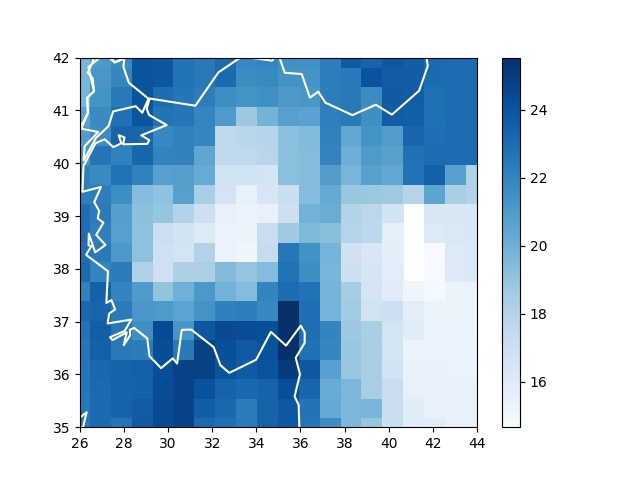
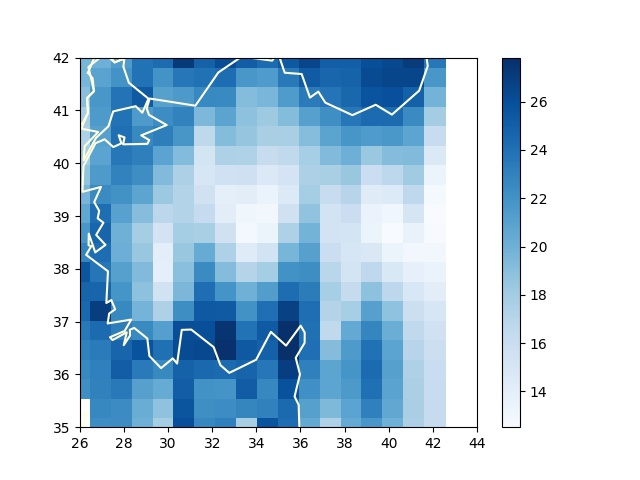
-

diff --git a/sk/2023/06/iklim-nem-verisi.html b/sk/2023/06/iklim-nem-verisi.html
@@ -263,33 +263,11 @@ toparlayıp renksel haritalama yapabiliriz, TR örneği,</p>
 <div class="codehilite">
 <pre><span></span><code><span class="kn">import</span> <span class="nn">numpy</span> <span class="k">as</span> <span class="nn">np</span><span class="o">,</span> <span class="nn">glob</span><span class="o">,</span> <span class="nn">simplegeomap</span> <span class="k">as</span> <span class="nn">sm</span><span class="o">,</span> <span class="nn">quads</span>
 <span class="kn">import</span> <span class="nn">pandas</span> <span class="k">as</span> <span class="nn">pd</span><span class="o">,</span> <span class="nn">os</span><span class="o">,</span> <span class="nn">matplotlib.pyplot</span> <span class="k">as</span> <span class="nn">plt</span>
+<span class="kn">from</span> <span class="nn">scipy.interpolate</span> <span class="kn">import</span> <span class="n">NearestNDInterpolator</span><span class="p">,</span> <span class="n">CloughTocher2DInterpolator</span>
 
 <span class="k">def</span> <span class="nf">cdist</span><span class="p">(</span><span class="n">p1</span><span class="p">,</span><span class="n">p2</span><span class="p">):</span>    
     <span class="n">distances</span> <span class="o">=</span> <span class="n">np</span><span class="o">.</span><span class="n">linalg</span><span class="o">.</span><span class="n">norm</span><span class="p">(</span><span class="n">p1</span> <span class="o">-</span> <span class="n">p2</span><span class="p">,</span> <span class="n">axis</span><span class="o">=</span><span class="mi">1</span><span class="p">)</span>
     <span class="k">return</span> <span class="n">distances</span>
-
-<span class="k">class</span> <span class="nc">QuadTreeInterpolator</span><span class="p">:</span>
-    <span class="k">def</span> <span class="fm">__init__</span><span class="p">(</span><span class="bp">self</span><span class="p">,</span> <span class="n">x</span><span class="p">,</span> <span class="n">y</span><span class="p">):</span>
-        <span class="bp">self</span><span class="o">.</span><span class="n">tree</span> <span class="o">=</span> <span class="n">quads</span><span class="o">.</span><span class="n">QuadTree</span><span class="p">((</span><span class="n">np</span><span class="o">.</span><span class="n">mean</span><span class="p">(</span><span class="n">x</span><span class="p">),</span> <span class="n">np</span><span class="o">.</span><span class="n">mean</span><span class="p">(</span><span class="n">y</span><span class="p">)),</span> <span class="mi">100</span><span class="p">,</span> <span class="mi">100</span><span class="p">)</span>
-
-    <span class="k">def</span> <span class="nf">cell_interp</span><span class="p">(</span><span class="bp">self</span><span class="p">,</span> <span class="n">x</span><span class="p">,</span> <span class="n">y</span><span class="p">,</span> <span class="n">points</span><span class="p">):</span>
-        <span class="n">a</span> <span class="o">=</span> <span class="n">np</span><span class="o">.</span><span class="n">array</span><span class="p">([</span><span class="n">x</span><span class="p">,</span><span class="n">y</span><span class="p">])</span><span class="o">.</span><span class="n">reshape</span><span class="p">(</span><span class="o">-</span><span class="mi">1</span><span class="p">,</span><span class="mi">2</span><span class="p">)</span>
-        <span class="n">b</span> <span class="o">=</span> <span class="n">np</span><span class="o">.</span><span class="n">array</span><span class="p">(</span><span class="n">points</span><span class="p">)[:,:</span><span class="mi">2</span><span class="p">]</span>
-        <span class="n">ds</span> <span class="o">=</span> <span class="n">cdist</span><span class="p">(</span><span class="n">a</span><span class="p">,</span><span class="n">b</span><span class="p">)</span>
-        <span class="n">ds</span> <span class="o">=</span> <span class="n">ds</span> <span class="o">/</span> <span class="n">np</span><span class="o">.</span><span class="n">sum</span><span class="p">(</span><span class="n">ds</span><span class="p">)</span>
-        <span class="n">ds</span> <span class="o">=</span> <span class="mf">1.</span> <span class="o">-</span> <span class="n">ds</span>
-        <span class="n">c</span> <span class="o">=</span> <span class="n">np</span><span class="o">.</span><span class="n">array</span><span class="p">(</span><span class="n">points</span><span class="p">)[:,</span><span class="mi">2</span><span class="p">]</span>
-        <span class="n">iz</span> <span class="o">=</span> <span class="n">np</span><span class="o">.</span><span class="n">sum</span><span class="p">(</span><span class="n">c</span> <span class="o">*</span> <span class="n">ds</span><span class="p">)</span> <span class="o">/</span> <span class="n">np</span><span class="o">.</span><span class="n">sum</span><span class="p">(</span><span class="n">ds</span><span class="p">)</span>
-        <span class="k">return</span> <span class="n">iz</span>
-
-    <span class="k">def</span> <span class="nf">append</span><span class="p">(</span><span class="bp">self</span><span class="p">,</span> <span class="n">x</span><span class="p">,</span> <span class="n">y</span><span class="p">,</span> <span class="n">z</span><span class="p">):</span>
-        <span class="k">for</span> <span class="n">xx</span><span class="p">,</span><span class="n">yy</span><span class="p">,</span><span class="n">zz</span> <span class="ow">in</span> <span class="nb">zip</span><span class="p">(</span><span class="n">x</span><span class="p">,</span><span class="n">y</span><span class="p">,</span><span class="n">z</span><span class="p">):</span>
-            <span class="bp">self</span><span class="o">.</span><span class="n">tree</span><span class="o">.</span><span class="n">insert</span><span class="p">((</span><span class="n">xx</span><span class="p">,</span><span class="n">yy</span><span class="p">),</span><span class="n">data</span><span class="o">=</span><span class="n">zz</span><span class="p">)</span>
-
-    <span class="k">def</span> <span class="nf">interpolate</span><span class="p">(</span><span class="bp">self</span><span class="p">,</span><span class="n">x</span><span class="p">,</span><span class="n">y</span><span class="p">):</span>
-        <span class="n">res</span> <span class="o">=</span> <span class="bp">self</span><span class="o">.</span><span class="n">tree</span><span class="o">.</span><span class="n">nearest_neighbors</span><span class="p">((</span><span class="n">x</span><span class="p">,</span><span class="n">y</span><span class="p">),</span> <span class="n">count</span><span class="o">=</span><span class="mi">4</span><span class="p">)</span>
-        <span class="n">points</span> <span class="o">=</span> <span class="n">np</span><span class="o">.</span><span class="n">array</span><span class="p">([[</span><span class="n">c</span><span class="o">.</span><span class="n">x</span><span class="p">,</span> <span class="n">c</span><span class="o">.</span><span class="n">y</span><span class="p">,</span> <span class="n">c</span><span class="o">.</span><span class="n">data</span><span class="p">]</span> <span class="k">for</span> <span class="n">c</span> <span class="ow">in</span> <span class="n">res</span><span class="p">])</span>
-        <span class="k">return</span> <span class="bp">self</span><span class="o">.</span><span class="n">cell_interp</span><span class="p">(</span><span class="n">x</span><span class="p">,</span> <span class="n">y</span><span class="p">,</span> <span class="n">points</span><span class="p">)</span>               
 
 <span class="n">clat</span><span class="p">,</span><span class="n">clon</span><span class="p">,</span><span class="n">zoom</span> <span class="o">=</span> <span class="mi">39</span><span class="p">,</span><span class="mi">34</span><span class="p">,</span><span class="mi">2</span>
 
@@ -302,10 +280,8 @@ toparlayıp renksel haritalama yapabiliriz, TR örneği,</p>
 
 <span class="n">stats</span> <span class="o">=</span> <span class="n">df</span><span class="o">.</span><span class="n">loc</span><span class="p">[</span><span class="n">s</span><span class="p">[:</span><span class="mi">140</span><span class="p">]]</span>
 
-<span class="n">q</span> <span class="o">=</span> <span class="n">QuadTreeInterpolator</span><span class="p">(</span><span class="n">np</span><span class="o">.</span><span class="n">array</span><span class="p">(</span><span class="n">stats</span><span class="o">.</span><span class="n">lon</span><span class="p">),</span> <span class="n">np</span><span class="o">.</span><span class="n">array</span><span class="p">(</span><span class="n">stats</span><span class="o">.</span><span class="n">lat</span><span class="p">))</span>
+<span class="n">interp</span> <span class="o">=</span> <span class="n">CloughTocher2DInterpolator</span><span class="p">(</span><span class="nb">list</span><span class="p">(</span><span class="nb">zip</span><span class="p">(</span><span class="n">stats</span><span class="o">.</span><span class="n">lon</span><span class="p">,</span> <span class="n">stats</span><span class="o">.</span><span class="n">lat</span><span class="p">)),</span> <span class="n">stats</span><span class="o">.</span><span class="n">wbt</span><span class="p">)</span>
 
-<span class="n">q</span><span class="o">.</span><span class="n">append</span><span class="p">(</span><span class="n">np</span><span class="o">.</span><span class="n">array</span><span class="p">(</span><span class="n">stats</span><span class="o">.</span><span class="n">lon</span><span class="p">),</span> <span class="n">np</span><span class="o">.</span><span class="n">array</span><span class="p">(</span><span class="n">stats</span><span class="o">.</span><span class="n">lat</span><span class="p">),</span> <span class="n">np</span><span class="o">.</span><span class="n">array</span><span class="p">(</span><span class="n">stats</span><span class="o">.</span><span class="n">wbt</span><span class="p">))</span>
-<span class="n">interp</span> <span class="o">=</span> <span class="n">np</span><span class="o">.</span><span class="n">vectorize</span><span class="p">(</span><span class="n">q</span><span class="o">.</span><span class="n">interpolate</span><span class="p">,</span><span class="n">otypes</span><span class="o">=</span><span class="p">[</span><span class="n">np</span><span class="o">.</span><span class="n">float64</span><span class="p">])</span>
 <span class="n">xi</span><span class="p">,</span><span class="n">yi</span> <span class="o">=</span> <span class="n">np</span><span class="o">.</span><span class="n">meshgrid</span><span class="p">(</span><span class="n">np</span><span class="o">.</span><span class="n">linspace</span><span class="p">(</span><span class="mi">26</span><span class="p">,</span><span class="mi">44</span><span class="p">,</span><span class="mi">20</span><span class="p">),</span><span class="n">np</span><span class="o">.</span><span class="n">linspace</span><span class="p">(</span><span class="mi">35</span><span class="p">,</span><span class="mi">42</span><span class="p">,</span><span class="mi">20</span><span class="p">))</span>
 <span class="n">zi</span> <span class="o">=</span> <span class="n">interp</span><span class="p">(</span><span class="n">xi</span><span class="p">,</span> <span class="n">yi</span><span class="p">)</span>
 

diff --git a/sk/2023/06/iklim-nem-verisi.md b/sk/2023/06/iklim-nem-verisi.md
@@ -216,33 +216,11 @@ toparlayıp renksel haritalama yapabiliriz, TR örneği,
 ```python
 import numpy as np, glob, simplegeomap as sm, quads
 import pandas as pd, os, matplotlib.pyplot as plt
+from scipy.interpolate import NearestNDInterpolator, CloughTocher2DInterpolator
 
 def cdist(p1,p2):    
     distances = np.linalg.norm(p1 - p2, axis=1)
     return distances
-
-class QuadTreeInterpolator:
-    def __init__(self, x, y):
-        self.tree = quads.QuadTree((np.mean(x), np.mean(y)), 100, 100)
-
-    def cell_interp(self, x, y, points):
-        a = np.array([x,y]).reshape(-1,2)
-        b = np.array(points)[:,:2]
-        ds = cdist(a,b)
-        ds = ds / np.sum(ds)
-        ds = 1. - ds
-        c = np.array(points)[:,2]
-        iz = np.sum(c * ds) / np.sum(ds)
-        return iz
-
-    def append(self, x, y, z):
-        for xx,yy,zz in zip(x,y,z):
-            self.tree.insert((xx,yy),data=zz)
-            
-    def interpolate(self,x,y):
-        res = self.tree.nearest_neighbors((x,y), count=4)
-        points = np.array([[c.x, c.y, c.data] for c in res])
-        return self.cell_interp(x, y, points)               
 
 clat,clon,zoom = 39,34,2
 
@@ -255,10 +233,8 @@ sm.plot_continents(clat,clon,zoom=zoom,outcolor='white', fill=False)
 
 stats = df.loc[s[:140]]
 
-q = QuadTreeInterpolator(np.array(stats.lon), np.array(stats.lat))
+interp = CloughTocher2DInterpolator(list(zip(stats.lon, stats.lat)), stats.wbt)
 
-q.append(np.array(stats.lon), np.array(stats.lat), np.array(stats.wbt))
-interp = np.vectorize(q.interpolate,otypes=[np.float64])
 xi,yi = np.meshgrid(np.linspace(26,44,20),np.linspace(35,42,20))
 zi = interp(xi, yi)
 
